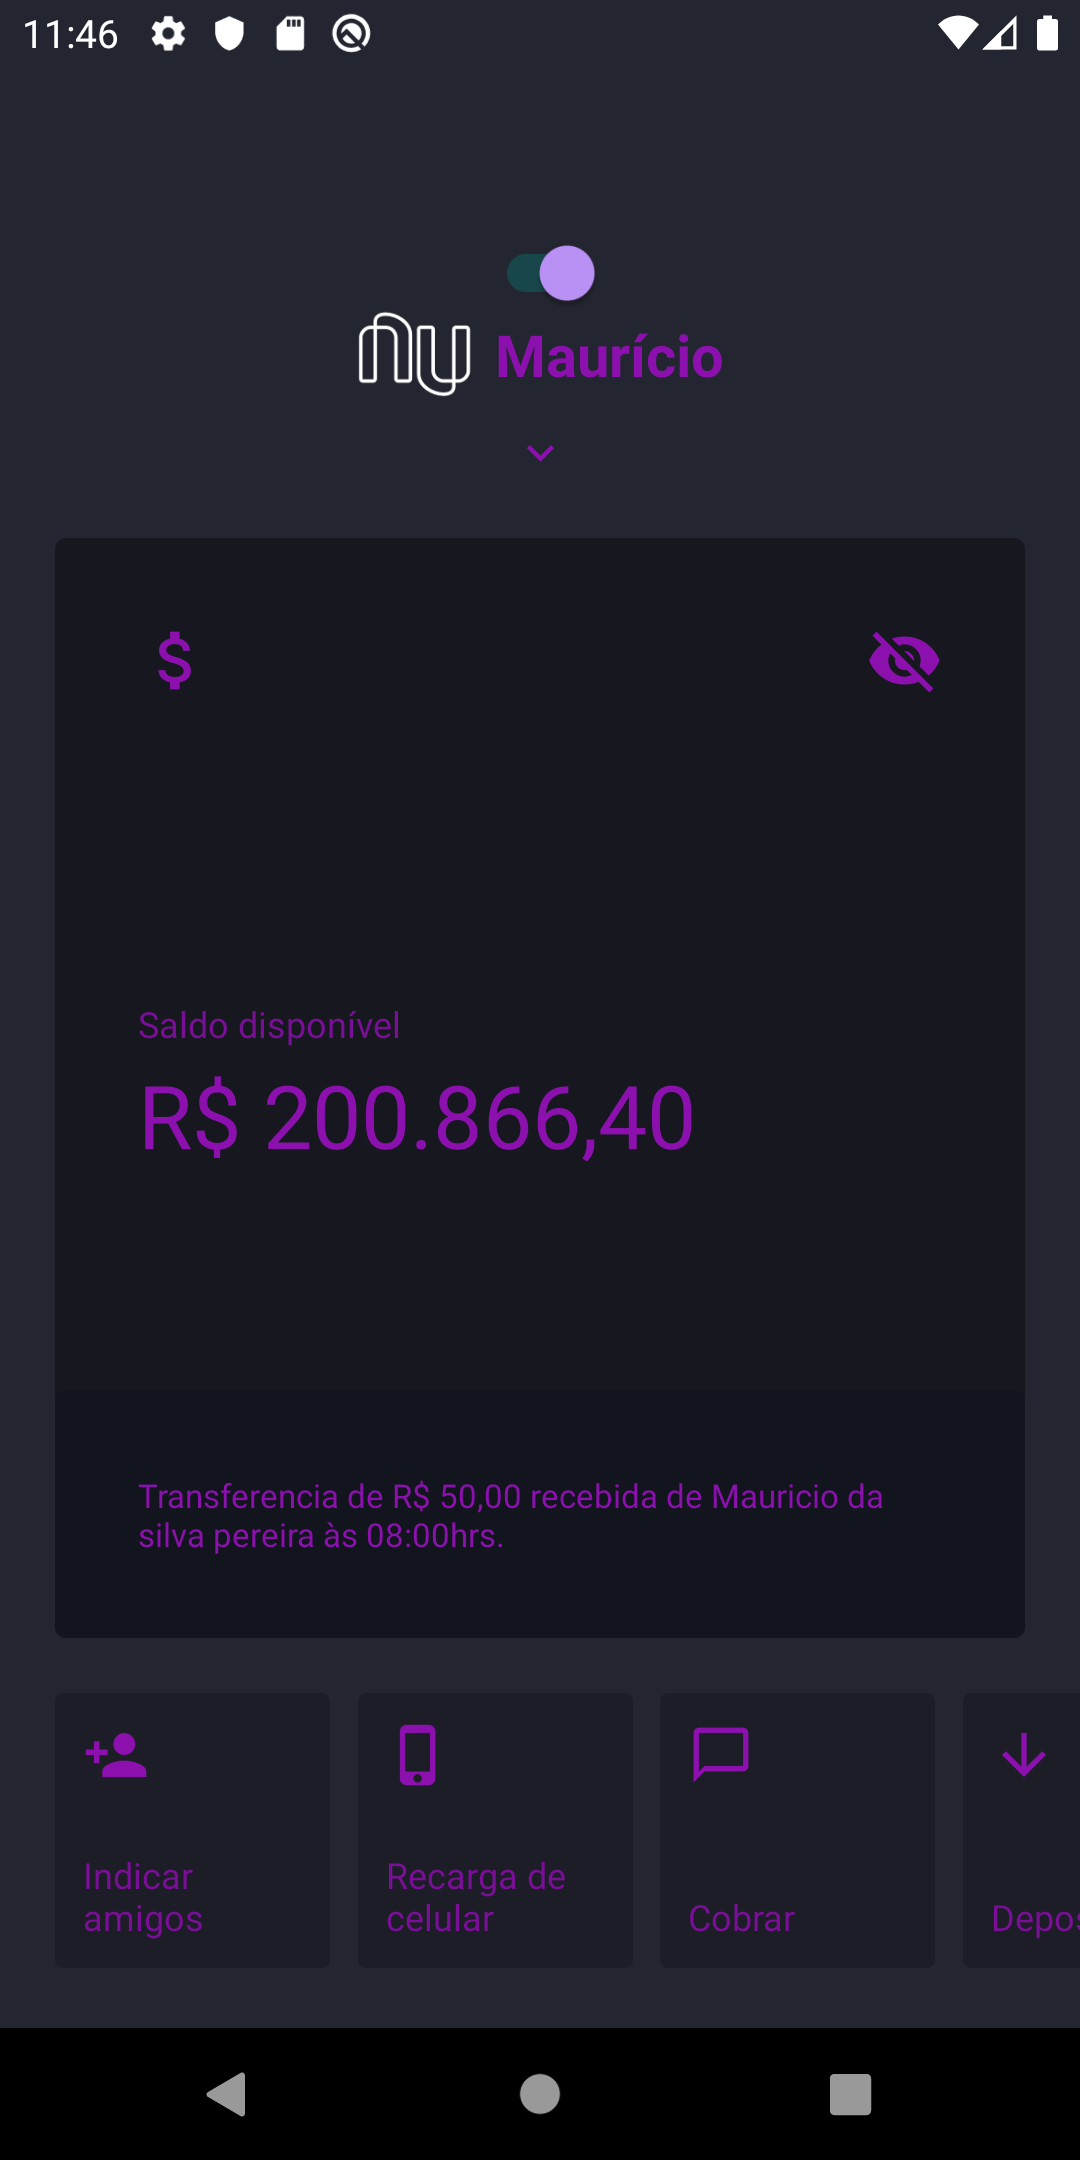
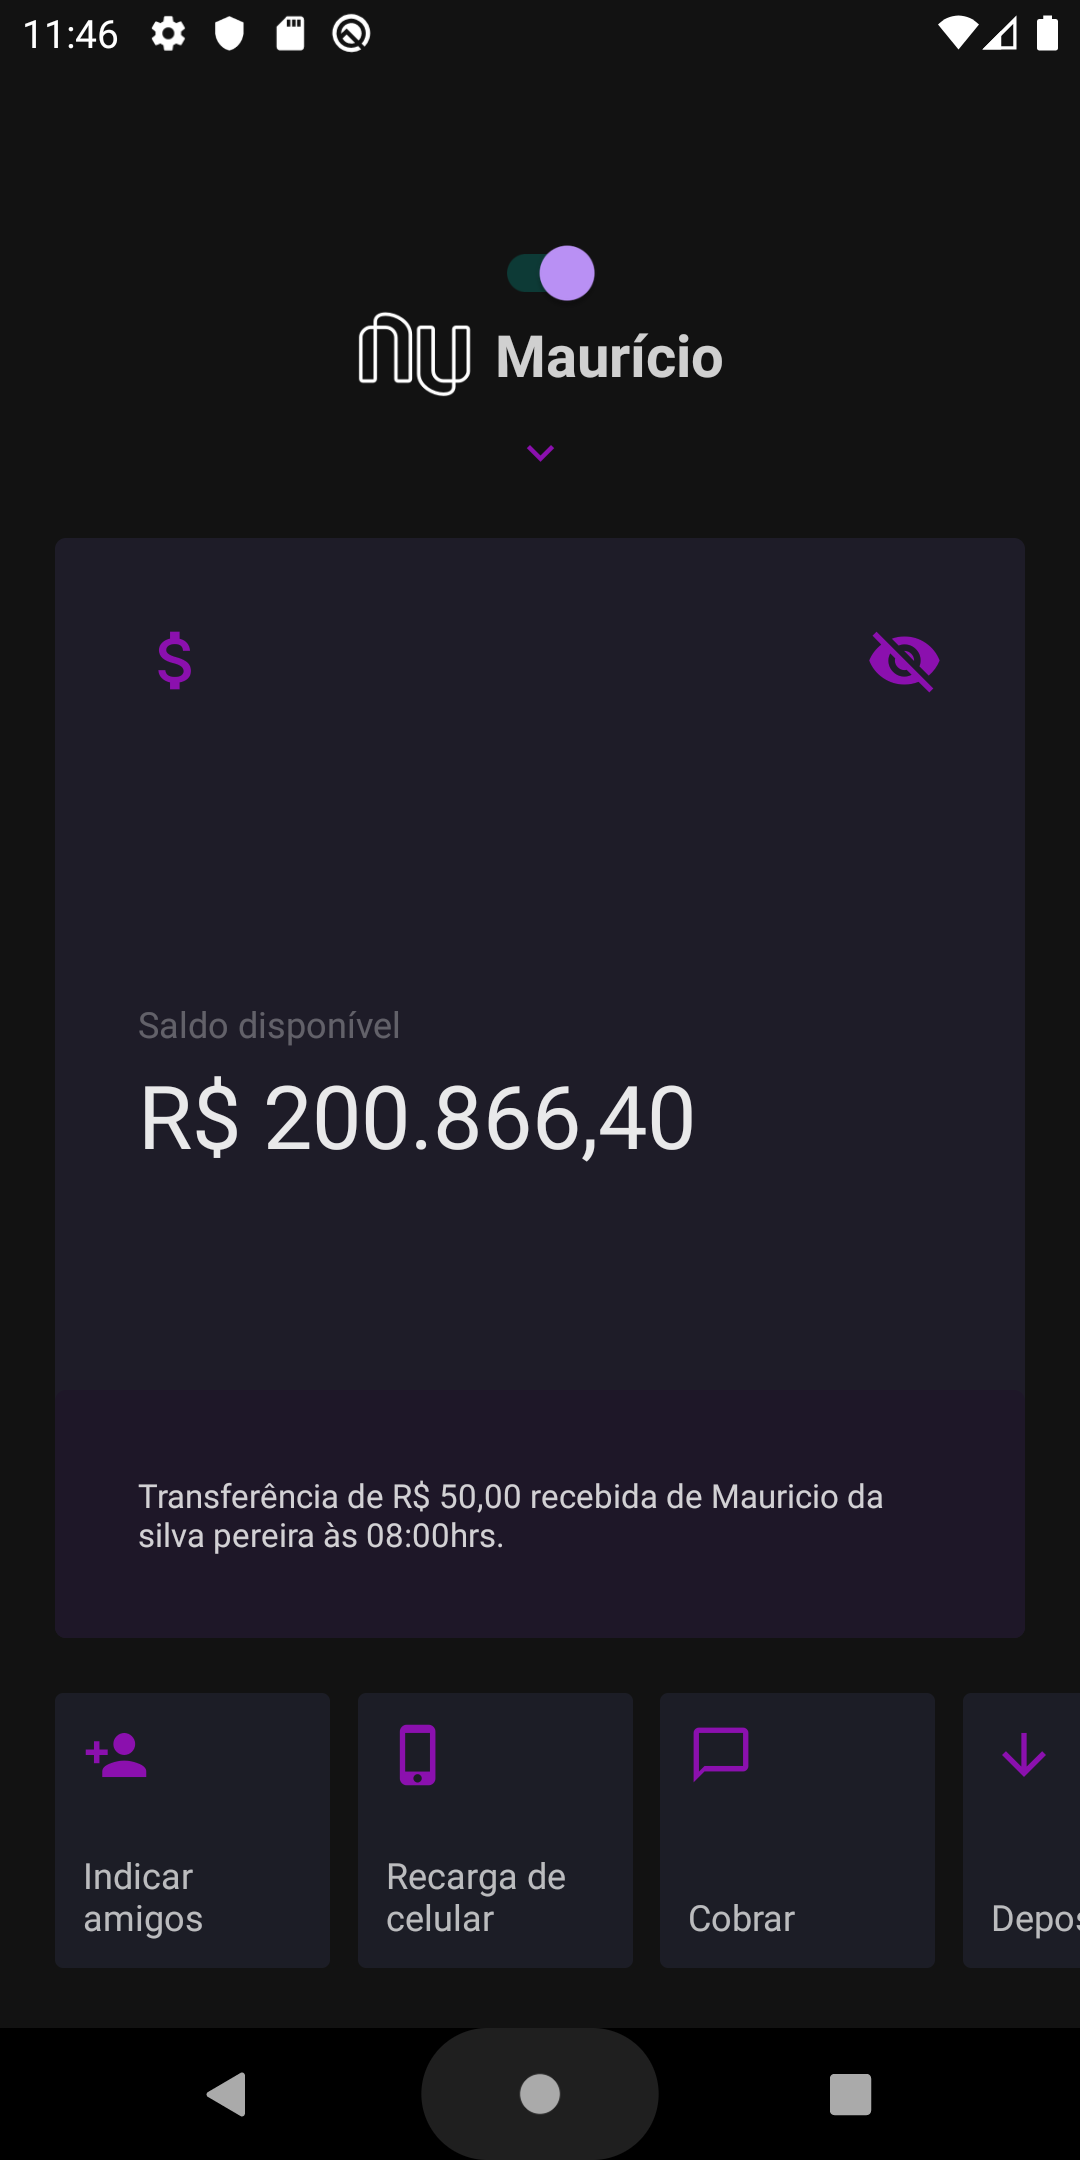
UI interface adjustments

diff --git a/src/components/Menu/index.js b/src/components/Menu/index.js
@@ -34,7 +34,7 @@ export default function Menu({translateY, darkValue, darkChange}) {
           <Icon
             name="help-outline"
             size={20}
-            color={darkValue ? '#8b10ae' : '#fff'}
+            color={darkValue ? 'rgba(255,255,255,0.7)' : '#fff'}
           />
           <NavText>Me ajuda</NavText>
         </NavItem>
@@ -42,7 +42,7 @@ export default function Menu({translateY, darkValue, darkChange}) {
           <Icon
             name="person-outline"
             size={20}
-            color={darkValue ? '#8b10ae' : '#fff'}
+            color={darkValue ? 'rgba(255,255,255,0.7)' : '#fff'}
           />
           <NavText>Perfil</NavText>
         </NavItem>
@@ -50,7 +50,7 @@ export default function Menu({translateY, darkValue, darkChange}) {
           <Icon
             name="credit-card"
             size={20}
-            color={darkValue ? '#8b10ae' : '#fff'}
+            color={darkValue ? 'rgba(255,255,255,0.7)' : '#fff'}
           />
           <NavText>Configurar cartão</NavText>
         </NavItem>
@@ -58,7 +58,7 @@ export default function Menu({translateY, darkValue, darkChange}) {
           <Icon
             name="smartphone"
             size={20}
-            color={darkValue ? '#8b10ae' : '#fff'}
+            color={darkValue ? 'rgba(255,255,255,0.7)' : '#fff'}
           />
           <NavText>Configurações do app</NavText>
         </NavItem>

diff --git a/src/themes/dark.js b/src/themes/dark.js
@@ -1,15 +1,15 @@
 export default {
-  backgroundContent: '#232530',
-  backgroundCard: '#17171F',
-  colorTitle: '#790E97',
-  descriptionText: '#8B10AE',
-  cardFooterColor: '#12141E',
-  annotationText: '#8B10AE',
+  backgroundContent: '#121212',
+  backgroundCard: '#1E1C28',
+  colorTitle: 'rgba(255,255,255,0.3)',
+  descriptionText: 'rgba(255,255,255,0.9)',
+  cardFooterColor: 'rgba(30,22,40, 0.9)',
+  annotationText: 'rgba(255,255,255,0.8)',
 
-  titleColor: '#8b10ae',
+  titleColor: 'rgba(255,255,255,0.8)',
   backgroundTab: '#1C1D26',
-  tabText: '#790E97',
+  tabText: 'rgba(255,255,255,0.7)',
 
   backgroundCode: '#1C1D26',
-  borderRows: '#8B10AE',
+  borderRows: 'rgba(255,255,255,0.7)',
 };
